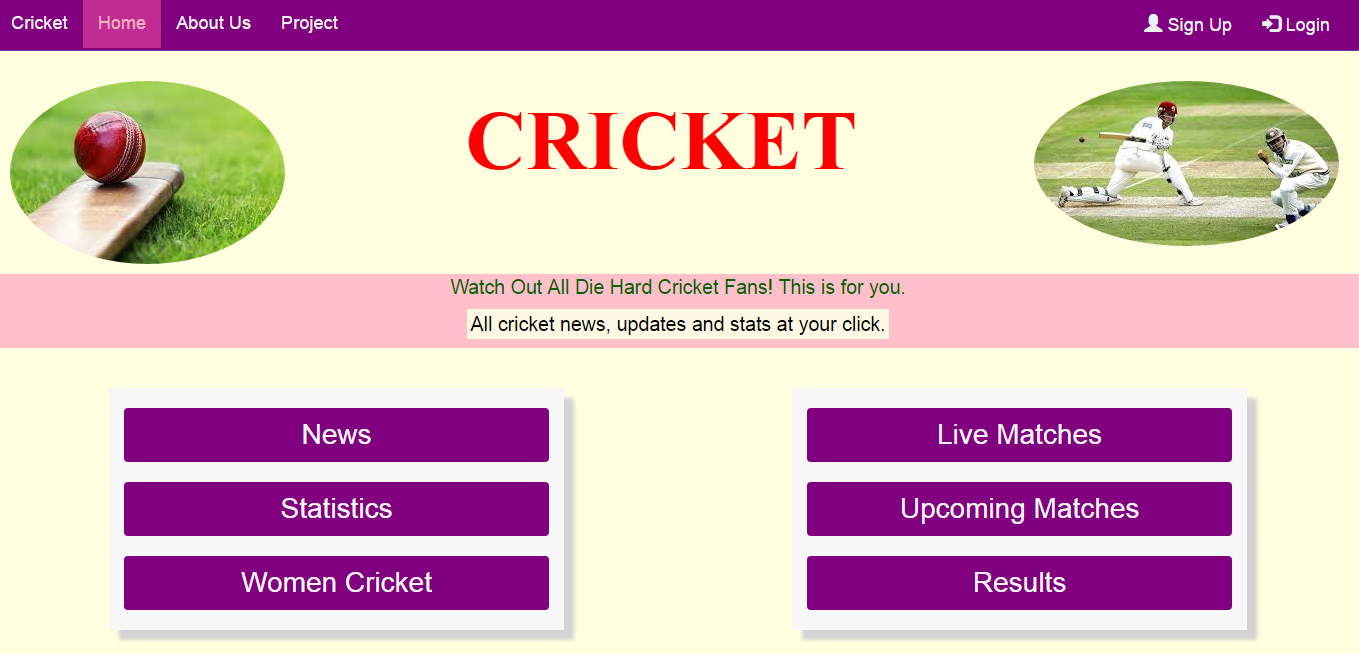
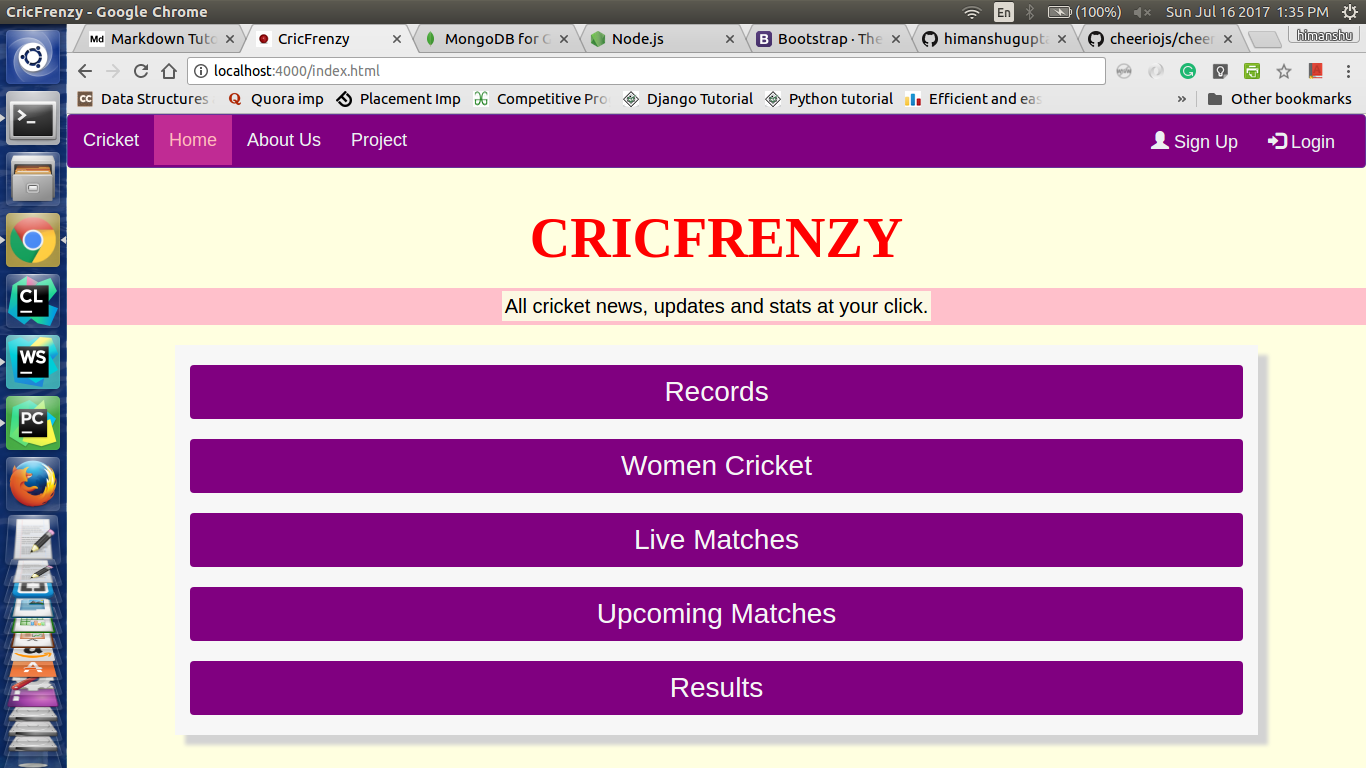
minor change

diff --git a/public_html/index.html b/public_html/index.html
@@ -179,7 +179,7 @@
 
         <div class="col-sm-3" id="row1-div1">
 
-            <img src="assets/logo3.jpg" height="140px" class="img-circle img-responsive" id="top-image1">
+
 
         </div>
         <div class="col-sm-1"></div>
@@ -192,7 +192,7 @@
         <div class="col-sm-1"></div>
         <div class="col-sm-3" id="row1-div3">
 
-            <img src="assets/logo2" height="150px" class="img-circle img-responsive" id="top-image2">
+
 
         </div>
 
